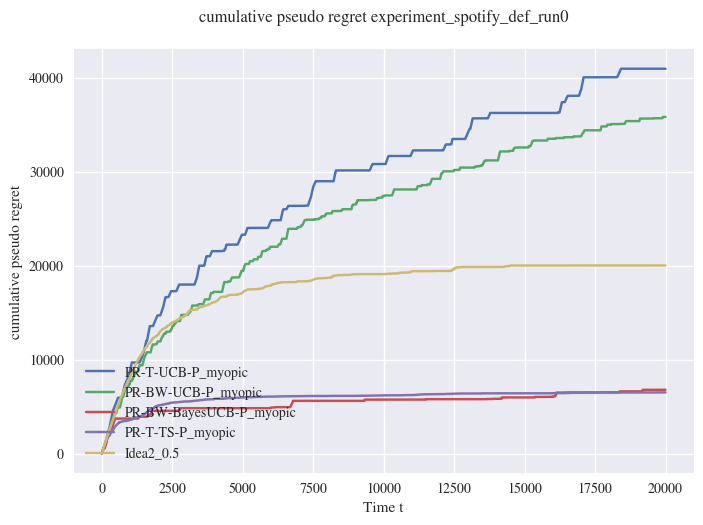
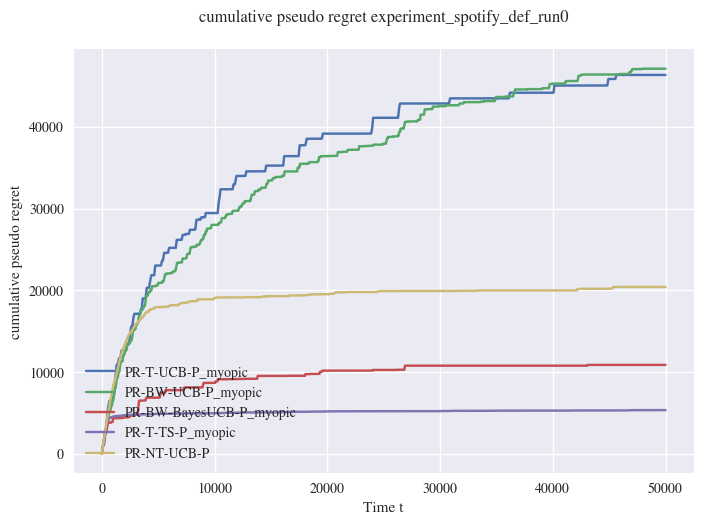
spotifyxserver

diff --git a/Experiment/Spotify_light_main.py b/Experiment/Spotify_light_main.py
@@ -82,7 +82,7 @@ play_dict = new_dict
 
 #SETUP CONFIG
 experiment_name = "experiment_spotify_def"
-T = 20000 
+T = 50000 
 n_runs = 50
 tmax = 80
 oracle = Oracle(get_n_arms(),get_arms(),tmax)
@@ -117,7 +117,7 @@ for run in range(n_runs):
     save_and_plot_run_results(show = False)
 
 #%% ANALYTICS
-Utils.compute_full_analytics(n_runs=n_runs,time_horizon=T,oracle=oracle,_learners=learners,experiment_name=experiment_name)
+#Utils.compute_full_analytics(n_runs=n_runs,time_horizon=T,oracle=oracle,_learners=learners,experiment_name=experiment_name)
 
 
 
